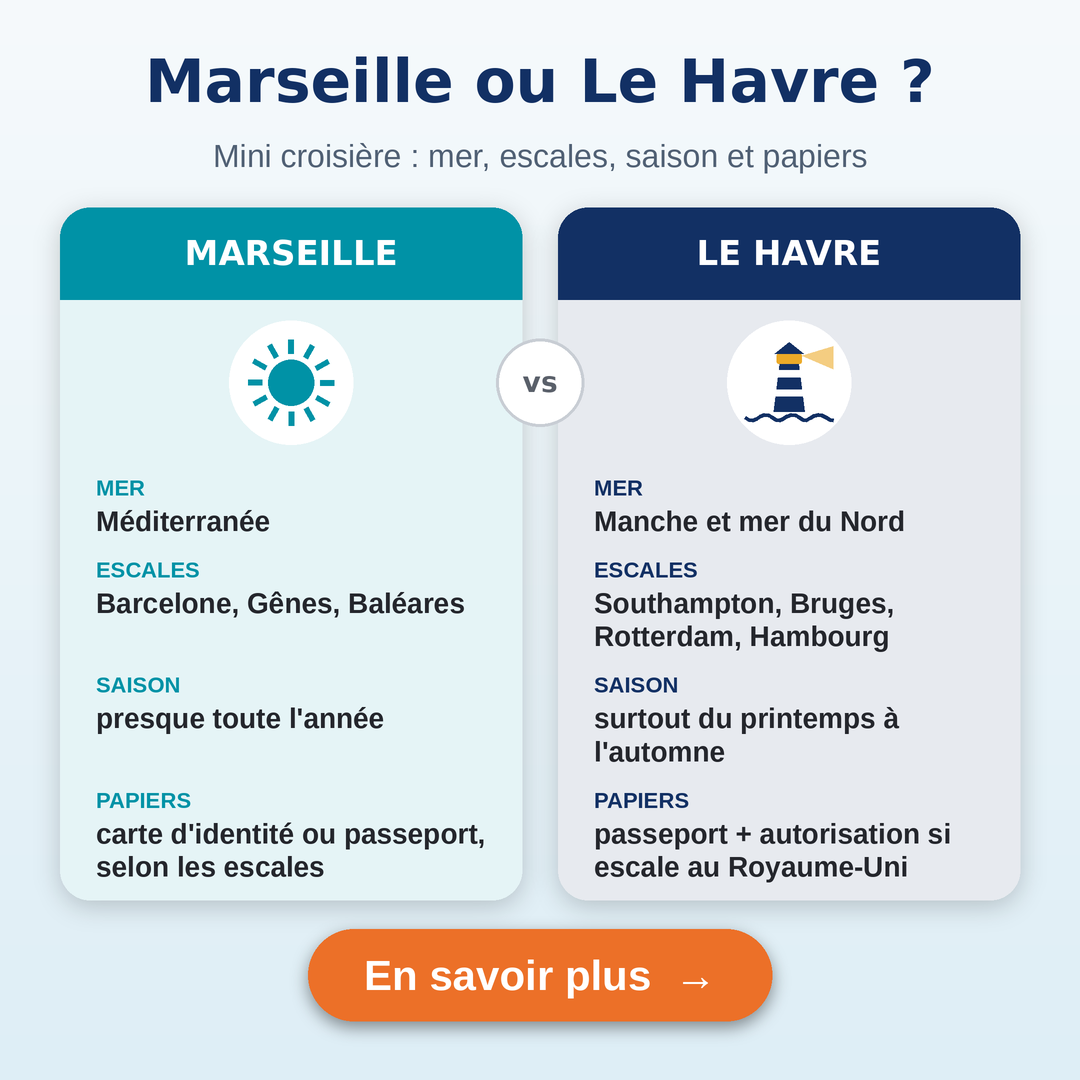
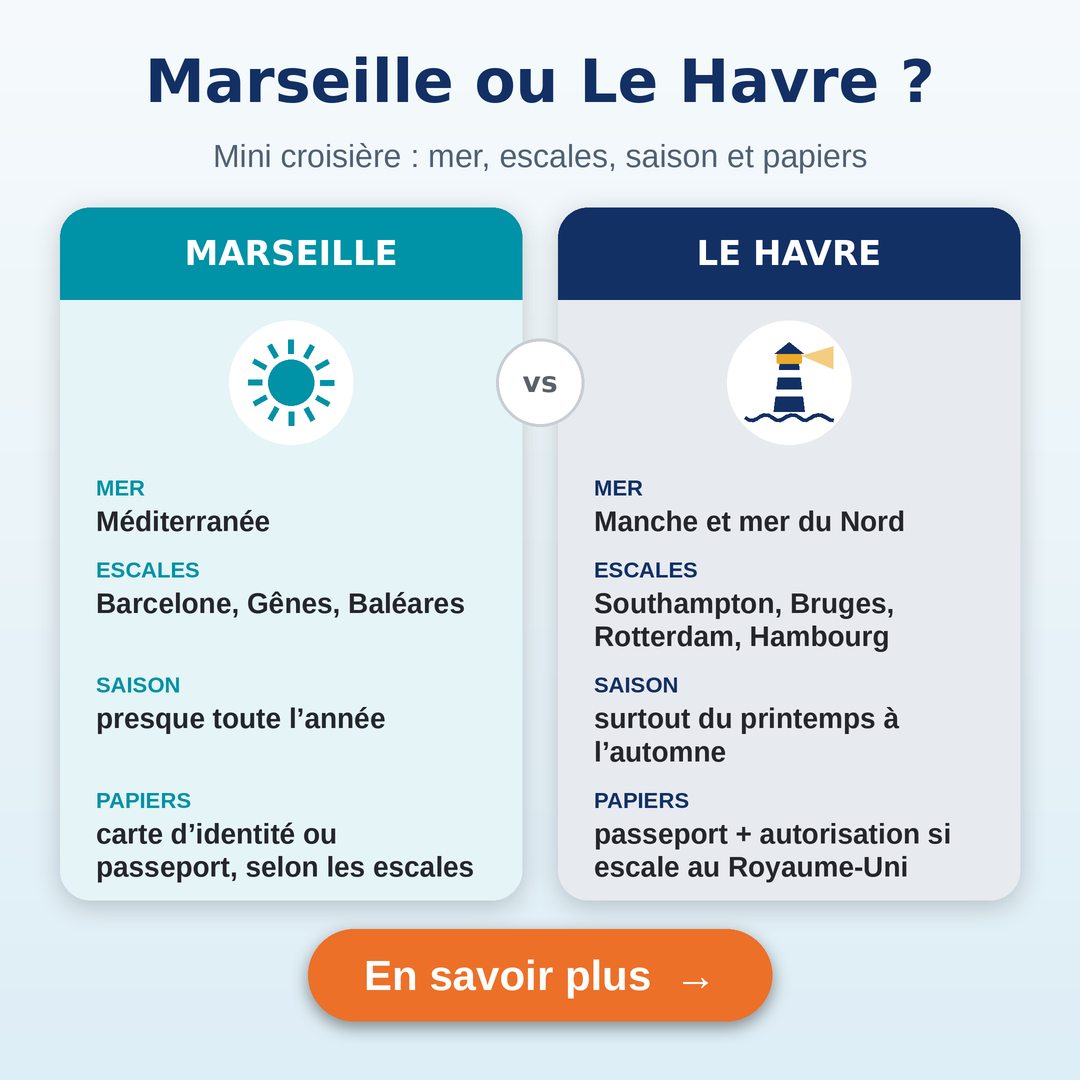
Packs wave 5: final creatives for 5 new tests, attached from asset store
Claude-Session: https://claude.ai/code/session_01C37NqGH9zFdyb8ik1XzQDR

Changed region(s): [[0.0917, 0.7639, 0.4583, 0.825], [0.55, 0.6722, 0.6722, 0.7028], [0.275, 0.6417, 0.3667, 0.6722]]

diff --git a/creatives/ready/2026-09-30_packs/src/w5_nt.py b/creatives/ready/2026-09-30_packs/src/w5_nt.py
@@ -796,27 +796,27 @@ def sc_au_table(c):
     c.rect((hx + 30, wy1 - 140, hx + 80, wy1 - 100), fill=(160, 200, 230))
     c.rect((hx + 120, wy1 - 140, hx + 170, wy1 - 100), fill=(160, 200, 230))
     c.rect((hx + 88, wy1 - 120, hx + 112, wy1 - 60), fill=(120, 90, 70))
-    gum_tree(c, wx0 + 140, wy1 - 70, 0.9)
+    gum_tree(c, wx0 + 140, wy1 - 70, 0.66)
     c.rect((wx0, wy1 - 70, wx1, wy1 - 58), fill=(236, 230, 214))
     for k in range(12):
         x = wx0 + 10 + k * 50
         c.rect((x, wy1 - 96, x + 12, wy1 - 58), fill=(240, 236, 224), r=3)
     c.rect(((wx0 + wx1) / 2 - 8, wy0, (wx0 + wx1) / 2 + 8, wy1), fill=(250, 248, 244))
     c.rect((wx0, (wy0 + wy1) / 2 - 6, wx1, (wy0 + wy1) / 2 + 6), fill=(250, 248, 244))
-    S.plant(c, wx1 + 110, 790, 0.9)
+    S.plant(c, wx1 + 100, 790, 0.62)
     # стол
     c.rect((0, 790, W, W), fill=(196, 160, 118))
     S.wood(c, (0, 804, W, W), (206, 170, 128), (188, 152, 110), lines=6, seed=33)
     c.rect((0, 790, W, 806), fill=(176, 140, 100))
     # предметы на столе
-    W3.calc_obj(c, 800, 830, 130, 150, shown="")
+    W3.calc_obj(c, 860, 824, 120, 140, shown="")
     S.paper(c, (430, 820, 640, 1000), -5, head="5 QUESTIONS", head_size=22, lines=5, head_col=(64, 36, 84))
     c.rect((150, 850, 380, 1010), fill=(90, 70, 110), r=10)
     c.rect((166, 836, 364, 994), fill=WH, r=4)
     for k in range(6):
         c.rect((186, 862 + k * 20, 330 - (k % 2) * 60, 870 + k * 20), fill=(200, 204, 214), r=3)
     S.pen(c, 610, 1010, 700, 960)
-    S.teacup(c, 980, 880, 0.7, rim=(90, 70, 110))
+    S.teacup(c, 1010, 890, 0.6, rim=(90, 70, 110))
     S.glasses(c, 700, 1040, 0.7)
     # пара со спины
     WS.senior_back(c, 300, 1150, 1.45, (110, 140, 170), hair=(214, 214, 220))
@@ -847,7 +847,7 @@ def suitcase(c, x, by, s, col=(0, 132, 150)):
         c.circle(xx, by - 8 * s, 10 * s, fill=(30, 32, 38))
 
 
-def boarding_card(c, box, ang, lines, head="CARTE D'EMBARQUEMENT", band=(18, 48, 100)):
+def boarding_card(c, box, ang, lines, head="CARTE D’EMBARQUEMENT", band=(18, 48, 100)):
     """Бумажный посадочный без названия компании (повёрнут)."""
     from PIL import Image, ImageDraw
     x0, y0, x1, y1 = box
@@ -861,7 +861,7 @@ def boarding_card(c, box, ang, lines, head="CARTE D'EMBARQUEMENT", band=(18, 48,
     for txt, fn, sz in lines:
         dd.text((14 * K, y * K), txt, font=c.font(fn, sz), fill=(30, 34, 44, 255))
         y += sz + 12
-    st = (x1 - x0) * 0.74
+    st = (x1 - x0) * 0.79
     for yy in range(40, int(y1 - y0), 12):
         dd.line((st * K, yy * K, st * K, (yy + 6) * K), fill=(180, 186, 196, 255), width=2 * K)
     rnd = random.Random(8)
@@ -916,7 +916,7 @@ def sc_fr_port_sunset(c):
         c.rect((x - 24, 850, x + 24, 904), fill=(60, 60, 68), r=10)
         c.rect((x - 34, 846, x + 34, 862), fill=(70, 70, 78), r=6)
     suitcase(c, 340, 1040, 0.62)
-    boarding_card(c, (560, 930, 900, 1060), -6, [("MARSEILLE → BARCELONE", "db", 22), ("3 NUITS · CABINE ---", "sb", 18)])
+    boarding_card(c, (530, 926, 970, 1062), -5, [("MARSEILLE → BARCELONE", "db", 22), ("3 NUITS · CABINE ---", "sb", 18)])
 
 
 def scene_card2(P, t):
@@ -1076,7 +1076,7 @@ PACKS[4] = dict(
     doc="NT-pension-loans-au-2026-09-30", cta="Learn more",
     pal=dict(bg=(250, 246, 240), bg2=(240, 232, 222), ink=PLUM4, sub=(96, 86, 100), acc=(150, 84, 160), btn=ORG4, tile=WH, tile_ink=PLUM4,
              icon=PLUM4, iconbg=(238, 228, 242)),
-    a=dict(fn="grid6", title="Pension loans in Australia 2026:", title2="6 options explained", size=54,
+    a=dict(fn="grid6", title="Pension loans in Australia:", title2="6 options for 2026", size=56,
            sub="Pick one to see how it works",
            tiles=[("house", "Home Equity Access Scheme"), ("calendar", "Pension advance payment"), ("bank", "Bank & credit union loans"),
                   ("heart_hands", "No-interest community loans"), ("key_plus", "Reverse mortgage"), ("w5n_house_split", "Home reversion")],
@@ -1122,9 +1122,9 @@ PACKS[5] = dict(
            src="раздел 2 «Mini croisière départ Marseille : les itinéraires habituels» (Barcelone, Gênes ou Savone, Palma aux Baléares, un port de Corse) + раздел 3 «Croisière au départ du Havre 2026» (Southampton, Zeebrugge pour Bruges, Rotterdam ou Amsterdam, Hambourg)",
            note="2 колонки-порта (Марсель — бирюзовая с солнцем, Гавр — синяя с маяком), по 4 стоянки-кнопки из статьи, у каждой «En savoir plus»; без цен, брендов и «3 nuits» над Балеарами (в статье — маршруты подлиннее)"),
     b=dict(fn="pass_quiz", title="Croisière au départ du Havre :", title2="escale en Angleterre, quel document ?", size=52,
-           pass_head="CARTE D'EMBARQUEMENT", step="Quiz · question 1 sur 3", pass_route="LE HAVRE → SOUTHAMPTON",
+           pass_head="CARTE D’EMBARQUEMENT", step="Quiz · question 1 sur 3", pass_route="LE HAVRE → SOUTHAMPTON",
            from_lab="Départ", to_lab="Escale", q="Pour cette escale, que faut-il présenter ?",
-           opts=["Carte d'identité", "Passeport", "Passeport + autorisation électronique", "Aucun document"],
+           opts=["Carte d’identité", "Passeport", "Passeport + autorisation électronique", "Aucun document"],
            stub=[("NUITS", "3"), ("ESCALES", "2 ou 3")],
            pal=dict(bg=(214, 236, 246), bg2=(170, 212, 232), ink=BLEU5, sub=(70, 90, 110), acc=TURQ5, t2=ORANGE5, band=BLEU5, btn=ORANGE5),
            src="раздел 3 (escale au Royaume-Uni : depuis 2021 la carte d'identité ne suffit plus, passeport + autorisation de voyage électronique depuis 2025; верный ответ — третий) + лид («trois ou quatre nuits, deux ou trois escales»)",
@@ -1133,15 +1133,15 @@ PACKS[5] = dict(
            cols=[("MARSEILLE", "w3_sun", TURQ5), ("LE HAVRE", "w5n_lighthouse", BLEU5)],
            rows=[("MER", "Méditerranée", "Manche et mer du Nord"),
                  ("ESCALES", "Barcelone, Gênes, Baléares", "Southampton, Bruges, Rotterdam, Hambourg"),
-                 ("SAISON", "presque toute l'année", "surtout du printemps à l'automne"),
-                 ("PAPIERS", "carte d'identité ou passeport, selon les escales", "passeport + autorisation si escale au Royaume-Uni")],
-           src="разделы 2–3 (моря, стоянки, «départs presque toute l'année» / «la saison va surtout du printemps à l'automne», паспорт и электронное разрешение для Royaume-Uni) + чек-лист («carte d'identité ou passeport suivant les escales»)",
+                 ("SAISON", "presque toute l’année", "surtout du printemps à l’automne"),
+                 ("PAPIERS", "carte d’identité ou passeport, selon les escales", "passeport + autorisation si escale au Royaume-Uni")],
+           src="разделы 2–3 (моря, стоянки, «départs presque toute l’année» / «la saison va surtout du printemps à l’automne», паспорт и электронное разрешение для Royaume-Uni) + чек-лист («carte d’identité ou passeport suivant les escales»)",
            note="две колонки Марсель vs Гавр — порт против порта, не «круиз или курорт»; без цен"),
     d=dict(fn="scene_d", scene="w5n_fr_port_sunset", style="top", y=34, size=52, lines=2, kicker="3 NUITS À BORD, 2 OU 3 ESCALES",
            title="Mini croisière au départ de Marseille ou du Havre",
-           sub="Itinéraires 2026, papiers, saison : ce qu'il faut savoir avant de réserver", sub_size=30,
-           btn_y=470, pal=dict(ink=BLEU5, sub=(90, 60, 60), acc=(190, 70, 30), btn=ORANGE5),
-           scene_text="на посадочном: CARTE D'EMBARQUEMENT / MARSEILLE → BARCELONE / 3 NUITS · CABINE ---",
+           sub="Itinéraires 2026, papiers, saison : ce qu’il faut savoir avant de réserver", sub_size=30,
+           btn_y=352, pal=dict(ink=BLEU5, sub=(90, 60, 60), acc=(190, 70, 30), btn=ORANGE5),
+           scene_text="на посадочном: CARTE D’EMBARQUEMENT / MARSEILLE → BARCELONE / 3 NUITS · CABINE ---",
            src="заголовок статьи и лид («Trois ou quatre nuits à bord, deux ou trois escales»; Marseille / Le Havre) + раздел 2 (Barcelone) + раздел 5 (réserver)",
            note="порт на закате: безымянный лайнер без логотипа и названия выходит из гавани мимо маяка на молу; на причале чемодан и посадочный без названия компании"),
 )
@@ -1177,6 +1177,8 @@ def texts(t, cta):
         s = s + " / " + " / ".join(extra)
         if t["fn"] not in ("stairs6", "timeline5", "cards3", "ports2", "grid6"):
             s += f" / кнопка «{cta} →»"
+    if t["fn"] == "grid6":
+        s = s.replace(f" / кнопка «{cta} →»", "")
     return s
 
 
